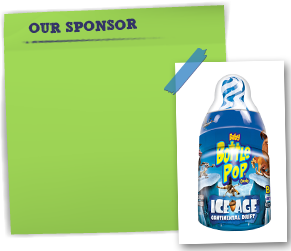
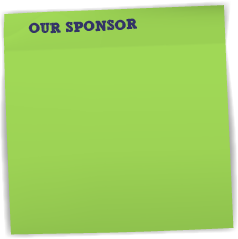
Make 'our sponsor' not have attached image, fix some number inputs

diff --git a/app/assets/stylesheets/_layout.css.scss b/app/assets/stylesheets/_layout.css.scss
@@ -1587,6 +1587,7 @@ html.resp, body.resp {
   }
   .our-sponsors {
     background-image: url(asset_path('our_sponsors.png', image));
+    background-repeat: no-repeat;
     position: relative;
     width: 291px;
     height: 251px;
@@ -1843,14 +1844,15 @@ input.awesome-button {
     display: inline-block;
   }
   input[type="number"] {
-      @extend .input-small;
-      margin-right: 10px;
+    @extend .input-small;
+    margin-right: 10px;
+    height: $baseLineHeight + 10;
   }
   input[type="submit"] {
     width: auto;
   }
   h4 {
-      font-weight: normal;
+    font-weight: normal;
   }
 }
 
